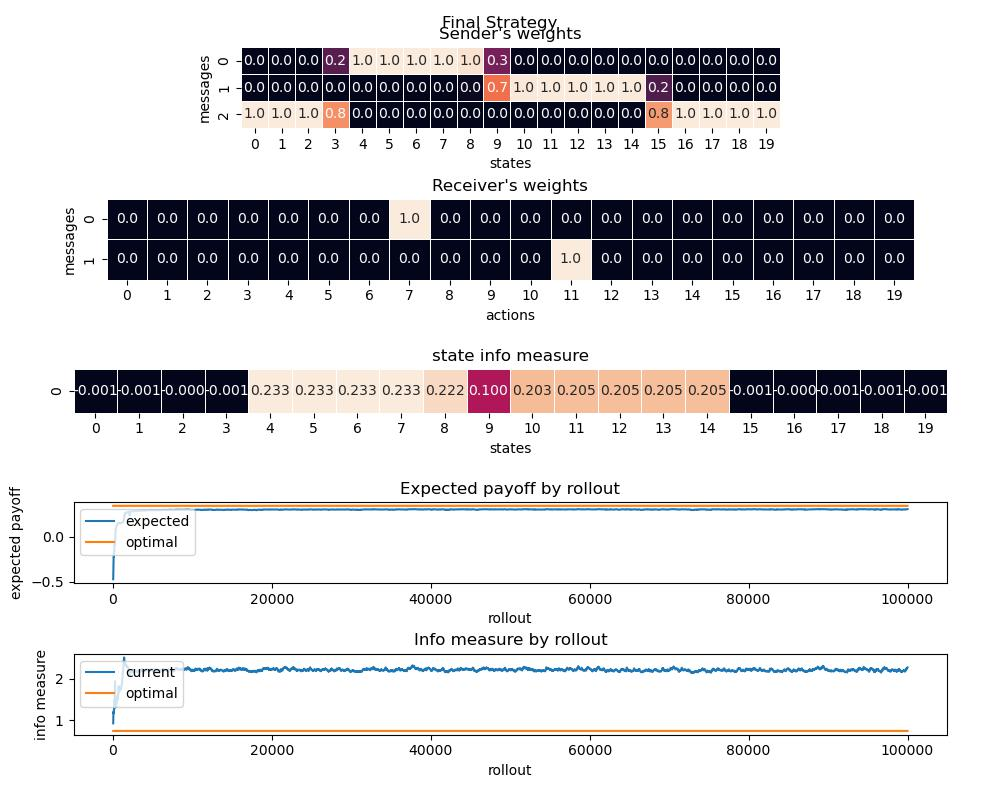
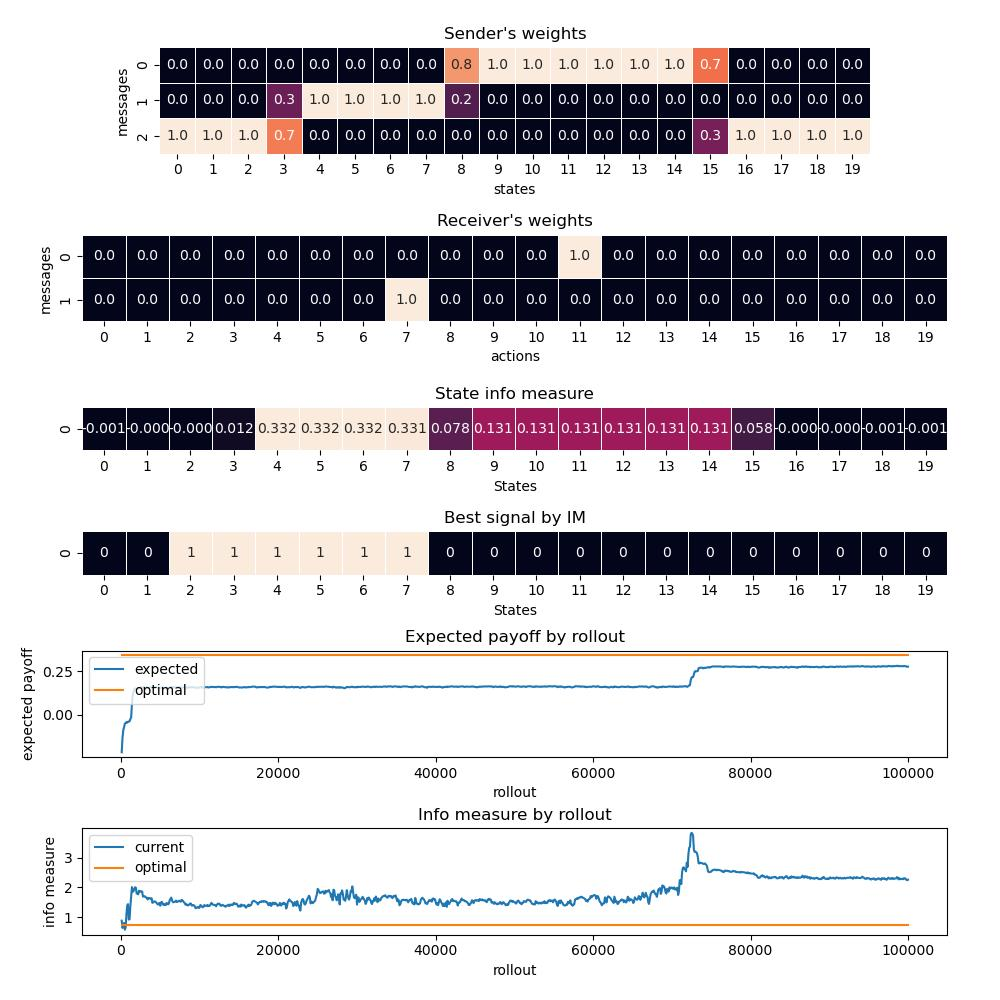
State info measure with best signal inb basic setup

diff --git a/Basic Setup/display.py b/Basic Setup/display.py
@@ -25,18 +25,20 @@ def gen_gif(signal_history: list, action_history: list, ep_fn, opt_payoff: float
   infoy = []
   opti_y = []
   state_info_y = []
+  best_signals_by_im = []
 
   for i in range(num_images):
-    fig, axs = plt.subplots(5, 1, figsize=(10, 8))
+    fig, axs = plt.subplots(6, 1, figsize=(10, 10), gridspec_kw={'height_ratios': [2, 2, 1, 1, 2, 2]})
     plt.tight_layout(pad=3)
 
-    step_info_measure = info_measure(signal_history[i])
+    step_info_measure, step_best_signals = info_measure(signal_history[i])
 
     ix.append((i+1)*record_interval)
     epy.append(ep_fn(signal_history[i], action_history[i]))
     optp_y.append(opt_payoff)
     infoy.append(sum(step_info_measure))
     state_info_y.append([step_info_measure])
+    best_signals_by_im.append([step_best_signals])
     opti_y.append(opt_info)
 
     sns.heatmap(signal_history[i], linewidths=0.5, linecolor="white", square=True, cbar=False, annot=True, 
@@ -51,23 +53,27 @@ def gen_gif(signal_history: list, action_history: list, ep_fn, opt_payoff: float
     axs[1].set_ylabel("messages")
     axs[1].set_title("Receiver\'s weights")
 
-    sns.heatmap(step_info_measure, linewidths=0.5, linecolor="white", square=True, cbar=False, annot=True, fmt=".3f", ax=axs[2])
-    axs[2].set_title("state info measure")
-    axs[2].set_xlabel("states")
+    sns.heatmap(state_info_y[i], linewidths=0.5, linecolor="white", square=True, cbar=False, annot=True, fmt=".3f", ax=axs[2])
+    axs[2].set_title("State info measure")
+    axs[2].set_xlabel("States")
 
-    axs[3].plot(ix, epy, label="expected")
-    axs[3].plot(ix, optp_y, label="optimal")
-    axs[3].legend(loc="upper left")
-    axs[3].set_xlabel("rollout")
-    axs[3].set_ylabel("expected payoff")
-    axs[3].set_title("Expected payoff by rollout")
+    sns.heatmap(best_signals_by_im[i], linewidths=0.5, linecolor="white", square=True, cbar=False, annot=True, ax=axs[3])
+    axs[3].set_title("Best signal by IM")
+    axs[3].set_xlabel("States")
 
-    axs[4].plot(ix, infoy, label="current")
-    axs[4].plot(ix, opti_y, label="optimal")
+    axs[4].plot(ix, epy, label="expected")
+    axs[4].plot(ix, optp_y, label="optimal")
     axs[4].legend(loc="upper left")
     axs[4].set_xlabel("rollout")
-    axs[4].set_ylabel("info measure")
-    axs[4].set_title("Info measure by rollout")
+    axs[4].set_ylabel("expected payoff")
+    axs[4].set_title("Expected payoff by rollout")
+
+    axs[5].plot(ix, infoy, label="current")
+    axs[5].plot(ix, opti_y, label="optimal")
+    axs[5].legend(loc="upper left")
+    axs[5].set_xlabel("rollout")
+    axs[5].set_ylabel("info measure")
+    axs[5].set_title("Info measure by rollout")
 
     fig.suptitle(f"Rollout {(i+1)*record_interval}")
     plt.savefig(f"./images/game_{(i+1)*record_interval}.png")
@@ -98,19 +104,21 @@ def gen_single_heatmap(signal_history: list, action_history: list, ep_fn, opt_pa
   infoy = []
   opti_y = []
   state_info_y = []
+  best_signals_by_im = []
   
-  fig, axs = plt.subplots(5, 1, figsize=(10,8))
+  fig, axs = plt.subplots(6, 1, figsize=(10,10), gridspec_kw={'height_ratios': [2, 2, 1, 1, 2, 2]})
   plt.tight_layout(pad=3)
 
 
   # get info measure stuff
   for i in range(num_iter // record_interval):
-    step_info_measure = info_measure(signal_history[i])
+    step_info_measure, step_best_signals = info_measure(signal_history[i])
     ix.append((i+1)*record_interval)
     epy.append(ep_fn(signal_history[i], action_history[i]))
     optp_y.append(opt_payoff)
     infoy.append(sum(step_info_measure))
     state_info_y.append([step_info_measure])
+    best_signals_by_im.append([step_best_signals])
     opti_y.append(opt_info)
 
 
@@ -129,24 +137,28 @@ def gen_single_heatmap(signal_history: list, action_history: list, ep_fn, opt_pa
   axs[1].set_title("Receiver\'s weights")
 
   sns.heatmap(state_info_y[-1], linewidths=0.5, linecolor="white", square=True, cbar=False, annot=True, fmt=".3f", ax=axs[2])
-  axs[2].set_title("state info measure")
-  axs[2].set_xlabel("states")
+  axs[2].set_title("State info measure")
+  axs[2].set_xlabel("States")
 
-  axs[3].plot(ix, epy, label="expected")
-  axs[3].plot(ix, optp_y, label="optimal")
-  axs[3].legend(loc="upper left")
-  axs[3].set_xlabel("rollout")
-  axs[3].set_ylabel("expected payoff")
-  axs[3].set_title("Expected payoff by rollout")
+  sns.heatmap(best_signals_by_im[-1], linewidths=0.5, linecolor="white", square=True, cbar=False, annot=True, ax=axs[3])
+  axs[3].set_title("Best signal by IM")
+  axs[3].set_xlabel("States")
 
-  axs[4].plot(ix, infoy, label="current")
-  axs[4].plot(ix, opti_y, label="optimal")
+  axs[4].plot(ix, epy, label="expected")
+  axs[4].plot(ix, optp_y, label="optimal")
   axs[4].legend(loc="upper left")
   axs[4].set_xlabel("rollout")
-  axs[4].set_ylabel("info measure")
-  axs[4].set_title("Info measure by rollout")
+  axs[4].set_ylabel("expected payoff")
+  axs[4].set_title("Expected payoff by rollout")
 
-  fig.suptitle(f"Final Strategy")
+  axs[5].plot(ix, infoy, label="current")
+  axs[5].plot(ix, opti_y, label="optimal")
+  axs[5].legend(loc="upper left")
+  axs[5].set_xlabel("rollout")
+  axs[5].set_ylabel("info measure")
+  axs[5].set_title("Info measure by rollout")
+
+  # fig.suptitle(f"Final Strategy")
   plt.savefig(output_file)
   plt.close(fig)
 

diff --git a/Basic Setup/signaling_game.py b/Basic Setup/signaling_game.py
@@ -172,10 +172,11 @@ class SignalingGame:
         return inf
     
 
-    def info_measure_best_sig(self, signal_prob) -> list[float]:
+    def info_measure_best_sig(self, signal_prob) -> tuple[list[float], list[int]]:
         prob = (signal_prob.T / np.sum(signal_prob, axis=1)).T
 
         aggregate_info_measure = []
+        aggregate_best_signals = []
         for state in range(self.num_states):
             state_info_measure = []
             for signal in range(self.num_signals):
@@ -184,8 +185,10 @@ class SignalingGame:
                 # Note: given uniform state prior, prob[signal, state] * self.num_states = prob[signal, state] / P(state)
                 signal_info_measure = prob[signal, state] * np.log(prob[signal, state] * self.num_states)
                 state_info_measure.append(signal_info_measure)
-            aggregate_info_measure.append(max(state_info_measure))
-        return aggregate_info_measure
+            best_signal = np.argmax(state_info_measure)
+            aggregate_info_measure.append(state_info_measure[best_signal])
+            aggregate_best_signals.append(best_signal)
+        return aggregate_info_measure, aggregate_best_signals
 
 
     def optimal_info(self) -> float:
@@ -224,7 +227,7 @@ class SignalingGame:
             "reward": reward
         })
 
-    def __call__(self, num_iter: int, record_interval=-1, repeat_num: int = None, make_gif: bool = True):
+    def __call__(self, num_iter: int, record_interval=-1, repeat_num=None, make_gif: bool = True):
         """Runs the simulation
 
         Args:

diff --git a/Basic Setup/run.py b/Basic Setup/run.py
@@ -7,7 +7,7 @@ def run():
   c = 1 # reward param 1
   d_lst = [0.3] # reward param 2
   i = 100_000 # number of rollouts per game
-  r = 25 # number of generations between image creation
+  r = 100 # number of generations between image creation
   repeats = 1
   
   for n in n_lst:
